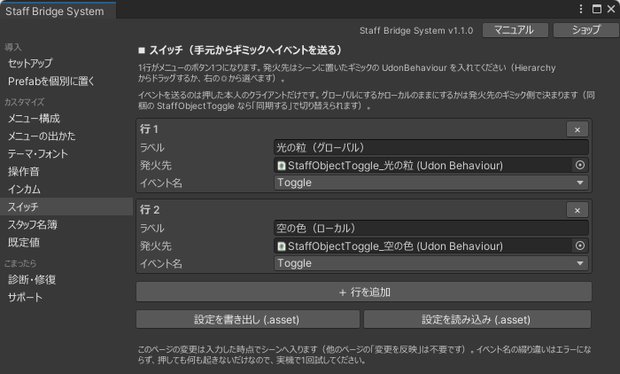
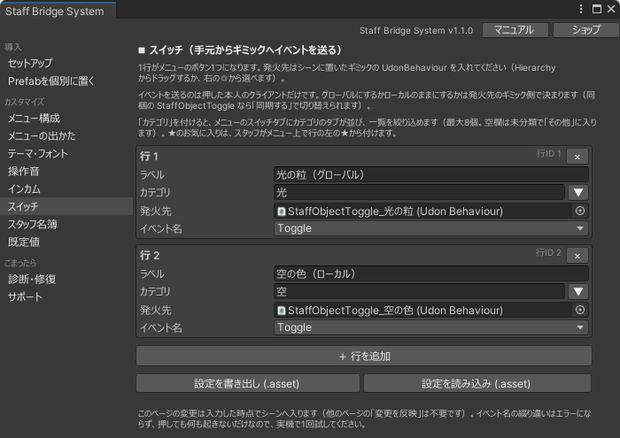
SBS: スイッチのカテゴリ分けとお気に入り（V1.2）の説明を追加する（公開前の下書き）
- 使い方: カテゴリで絞り込む、★で集める、1ページ14件
- 設定: StaffTrigger のカテゴリ・行ID、既知の制約、既存のワールドを更新する場合
- やりたいこと・機能一覧・トラブルシューティング・開発者向けを更新
- スイッチタブと設定窓のスイッチページの画像を撮り直し

公開は BOOTH のファイル差し替えの直後。更新履歴（changelog.md）は出荷時に書く。

diff --git a/docs/staff-bridge-system/howto.md b/docs/staff-bridge-system/howto.md
@@ -19,7 +19,7 @@
 | メニューの出かた | 開く長押し秒・Desktop開閉キー・スティックのしきい値、表示スケール／距離／下オフセット、自動で閉じる距離、最初に開くタブ |
 | テーマ・フォント | 配色テーマの選択、カスタム色、フォント、生成済みメニューへの再着色 |
 | インカム | チャンネル数（2〜16）の変更、各チャンネルの表示名、スタッフ限定モード・送信解除の待ち秒・ジェスチャー発話、インカムの一時停止 |
-| スイッチ | ワールドのギミックを動かすスイッチの行（ラベル・発火先・イベント名）の編集 |
+| スイッチ | ワールドのギミックを動かすスイッチの行（ラベル・発火先・イベント名・カテゴリ）の編集 |
 | スタッフ名簿 | 最初からスタッフにしておく人の編集、`.asset` への書き出し／読み込み |
 | 既定値 | メガホンの長押し秒・最大使用秒、インカムの最大送信秒、通知音の初期音量、通知ログ・共有タイマー・入退室ログの既定値、テレポートの着地位置、Desktopキー発話の候補 |
 
@@ -40,6 +40,8 @@
 | 画像資料を登録・差し替えたい | メニュー構成ページ > **画像資料編集を開く**。画像とページ名を最大16枚まで編集（≡でドラッグ並べ替え可）し、**画像資料に反映**を押す。メニューの作り直しは不要 |
 | ノートの内容を書き換えたい | メニュー構成ページ > **ノート編集を開く**（ページの追加・≡でドラッグ並べ替え・本文の編集。最大6ページ） |
 | スイッチの発火先を決めたい | スイッチページ > **＋ 行を追加** → ラベル／発火先／イベント名 を入れる（発火先だけはHierarchyからドラッグ、または右の◎から選ぶ） |
+| スイッチの行をカテゴリで分けたい | スイッチページ > 各行の **カテゴリ** に名前を入れる（空欄は未分類。▼から既存のカテゴリ名を選べる）。SBSメニューのスイッチタブに、カテゴリ名のタブが並ぶ。カテゴリは最大8個、名前は5文字までが通常の大きさ（8文字を超えると警告）→ [リファレンス](reference.md#trigger-category) |
+| スイッチタブにカテゴリやお気に入りの★を出したい（以前の版から更新した） | メニュー構成ページ > **この構成でメニューを作り直す**。スイッチの設定は引き継がれる。作り直したあとは、カテゴリを使わなくても「すべて」「★」のタブ列が出て、一覧は1ページ14件になる。★が出ない時は、スイッチページを一度開く → [リファレンス](reference.md#trigger-update) |
 | スイッチでオブジェクトを出し入れしたい | 同梱の `StaffObjectToggle` を空のオブジェクトに付け、**対象**に出し入れしたい GameObject を入れる。スイッチページの発火先にそれを指定し、イベント名を `Toggle`（`TurnOn` / `TurnOff` も可）にする |
 | 共有タイマーの2回押しの猶予を変えたい | 既定値ページ > **共有タイマーの確認秒**（既定 5） |
 | 共有タイマー終了時にギミックを動かしたい | Inspector：`StaffOpsTimer` の **終了時トリガー** に `StaffTrigger` を指定し、**終了時トリガー番号** を設定 |

diff --git a/docs/staff-bridge-system/features.md b/docs/staff-bridge-system/features.md
@@ -18,7 +18,7 @@
 | 入退室ログ | プレイヤーの入室・退室時刻の記録 | [使い方](usage.md#timer) / [設定](reference.md#join-log) |
 | ノート | 全体で共有するメモと自分専用メモ。進行台本やチェックリストの掲示に使用。視界右下への常時表示に対応 | [使い方](usage.md#note) / [設定](reference.md#cue) |
 | 画像資料 | 用意した画像をメニューから手元へ表示。スライダーまたはVRスティック操作で拡大・縮小に対応。最大16枚、複数枚の同時表示が可能 | [使い方](usage.md#image) / [設定](reference.md#image) |
-| スイッチ | SBSメニューからワールド内のギミックへイベントを送る。誰がいつ押したかの履歴が残る | [使い方](usage.md#switch) / [設定](reference.md#trigger) |
+| スイッチ | SBSメニューからワールド内のギミックへイベントを送る。最大32件。カテゴリのタブで絞り込め、各自の★のお気に入りに集められる。誰がいつ押したかの履歴が残る | [使い方](usage.md#switch) / [設定](reference.md#trigger) |
 | 通知ログ | 受信・タイマーの時間切れ・人の出入りを、視界の隅の1本のログにまとめて流す。左下／左上／表示しないを選択可能 | [使い方](usage.md#notice-log) / [設定](reference.md#notice-log) |
 | スタッフ管理 | 在室者を当日スタッフにする／当日スタッフを外す。常設スタッフで現在スタッフONの人だけが開けるタブ | [使い方](usage.md#staff-manage) / [設定](reference.md#grant-panel) |
 | 設定 | 音量・UI サイズ・発話方式・VR耳元操作・受信時の発話者名・通知ログとノートの位置を各自で調整する。再入場しても残る | [使い方](usage.md#settings) / [既定値](reference.md#settings-defaults) |
@@ -52,7 +52,7 @@
 | メニューの出かた | 開く操作、出る位置と大きさ、閉じかた、最初に開くタブ | [設定](reference.md#menu-shell) |
 | テーマ・フォント | 配色テーマ9種＋カスタム（役割色12色を個別編集）、フォントの差し替え。生成済みのメニューにも適用できる | [カスタマイズ](customize.md) |
 | インカム | チャンネル数・チャンネル名、インカムの届き方と発話、一時停止 | [運用](operation.md#incom-power) |
-| スイッチ | SBSメニューから送るイベントの行編集（ラベル・発火先・イベント名） | [設定](reference.md#trigger) |
+| スイッチ | SBSメニューから送るイベントの行編集（ラベル・発火先・イベント名・カテゴリ） | [設定](reference.md#trigger) |
 | スタッフ名簿 | 常設スタッフの登録。`.asset` として書き出し、別のワールドで読み込める | [運用](operation.md#staff-detection) |
 | 既定値 | メガホン・インカム・通知音・通知ログ・タイマーなどの初期値 | [設定](reference.md#settings-defaults) |
 | 診断・修復 | 設定の過不足を検出してまとめて自動修復する。聴こえ方マトリクス検査つき | [トラブルシューティング](troubleshoot.md) |

diff --git a/docs/staff-bridge-system/troubleshoot.md b/docs/staff-bridge-system/troubleshoot.md
@@ -121,6 +121,16 @@ FukuroUdon の内部仕様の差異による不具合を防ぐため、動作確
 
 ---
 
+## スイッチタブにカテゴリのタブや★が出ない・ずれる
+
+- 以前の版から上書きインポートしただけでは、メニューが作り直されていないため、タブと★は出ません。セットアップ窓の「メニュー構成」から「この構成でメニューを作り直す」を実行してください。スイッチの設定は引き継がれます（[リファレンス](reference.md#trigger-update)）
+- 作り直したあとも★が出ない場合は、セットアップ窓の「スイッチ」ページを一度開いてください。各行に行IDが振られます
+- カテゴリ名のタブが出ない場合は、「カテゴリ」欄が空欄になっていないか確認してください。空欄の行は「その他」にまとまります。9個目以降のカテゴリの行は、「すべて」と「★」にだけ出ます
+- ★が以前とは別のスイッチに付いている場合は、行を追加してアップロードしたあとに元に戻す（Undo）操作をした、または別のワールドの設定ファイル（.asset）を読み込んだ可能性があります。同じ行IDが別の行に渡ると、その番号に★を付けていたスタッフの端末では、★が別の行に移ります。該当のスタッフには、★を付け直してもらってください（[リファレンス](reference.md#trigger-category)）
+- 一覧が1ページ14件になったのは、タブの列が加わったためです。15件以上は右端の▲▼で送って見られます
+
+---
+
 ## 通知ログが出ない・邪魔になる
 
 - 出るのはスタッフだけです。スタッフ状態を確認してください

diff --git a/docs/staff-bridge-system/for-developers.md b/docs/staff-bridge-system/for-developers.md
@@ -146,7 +146,9 @@ public class StaffLamp : UdonSharpBehaviour
 | StaffTrigger の数 | 1シーンに1個。複数あるとメニューの作り直しが中止されます |
 | イベント名 | 文字列指定のため、間違ってもコンパイルエラーになりません。診断（健全性チェック）が発火先にその名前が実在するかを検査します |
 | 作り直しの引き継ぎ | メニューの作り直し・再生成で、スイッチの配線は自動で引き継がれます |
-| 配線の退避 | スイッチページの「設定を書き出し (.asset)」で配線一式を保存できます |
+| カテゴリ | 制作者が付けられる名前は8個までです。9個目以降の行は「すべて」「★」にだけ出ます |
+| 行ID | 各行に自動で振られる固定番号で、スタッフの★を結びつけます。並べ替えても変わりません。値を書き換えたり、別のワールドの設定ファイルを読み込んだりすると、★が別のスイッチに付くことがあります（[詳細](reference.md#trigger-category)） |
+| 配線の退避 | スイッチページの「設定を書き出し (.asset)」で配線一式（カテゴリと行IDを含む）を保存できます |
 | 発火先の型 | `VRC.Udon.UdonBehaviour`。UdonSharp 製・Udon Graph 製のどちらも指定できます |
 
 ## 公式リファレンス { #official-refs }
